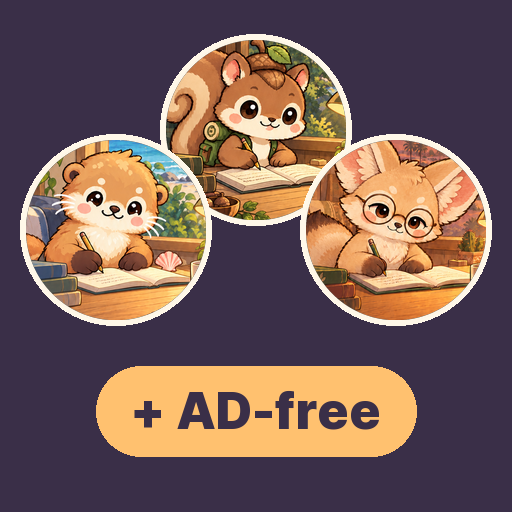
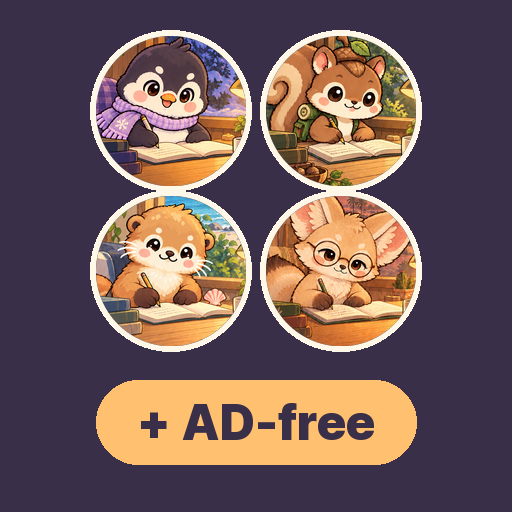
feat: sell the penguin and price products in pesos
The penguin becomes friend_penguin and joins the all-friends bundle, so the
red panda is the only free friend. Default prices are set in pesos (friend
MX$15, ad removal MX$10, bundle MX$35) with Mexico lowered to MX$10/10/29.
Adds the penguin product image, a four-friend bundle image, and bumps to
0.1.0+6.

diff --git a/test/purchases_test.dart b/test/purchases_test.dart
@@ -11,6 +11,7 @@ import 'session_engine_test.dart' show MemoryStore;
 import 'widget_test.dart' show loadAppFont;
 
 const _prices = {
+  Products.penguin: '₩1,500',
   Products.otter: '₩1,500',
   Products.squirrel: '₩1,500',
   Products.fennec: '₩1,500',
@@ -63,11 +64,12 @@ Future<void> _openFriends(WidgetTester tester, FocusFriendApp app) async {
 
 void main() {
   group('entitlements', () {
-    test('red panda and penguin are free; the others are sold', () {
+    test('only the red panda is free; the others are sold', () {
       const none = Entitlements();
       expect(none.hasFriend(FocusFriend.redpanda), isTrue);
-      expect(none.hasFriend(FocusFriend.penguin), isTrue);
+      expect(Products.forFriend(FocusFriend.redpanda), isNull);
       for (final friend in [
+        FocusFriend.penguin,
         FocusFriend.otter,
         FocusFriend.squirrel,
         FocusFriend.fennec,
@@ -120,7 +122,7 @@ void main() {
       ),
     );
     expect(find.byType(BundleBanner), findsOneWidget);
-    expect(find.byType(LockChip), findsNWidgets(2)); // otter, squirrel visible
+    expect(find.byType(LockChip), findsNWidgets(3)); // penguin, otter, squirrel
     await tester.tap(find.byKey(const ValueKey('friend-card-otter')));
     await tester.tap(find.byKey(const ValueKey('friend-preview')));
     await pumpPreviewTransition(tester);

diff --git a/lib/purchases.dart b/lib/purchases.dart
@@ -7,6 +7,7 @@ import 'focus_friend.dart';
 /// One-time Google Play products. The ids must match Play Console exactly and
 /// can never be reused once created, so do not rename them.
 abstract final class Products {
+  static const penguin = 'friend_penguin';
   static const otter = 'friend_otter';
   static const squirrel = 'friend_squirrel';
   static const fennec = 'friend_fennec';
@@ -16,12 +17,13 @@ abstract final class Products {
   /// separately, so this list stays fixed.
   static const allFriends = 'all_friends';
 
-  static const all = {otter, squirrel, fennec, removeAds, allFriends};
-  static const friends = [otter, squirrel, fennec];
+  static const all = {penguin, otter, squirrel, fennec, removeAds, allFriends};
+  static const friends = [penguin, otter, squirrel, fennec];
 
-  /// Null for the free friends.
+  /// Null for the free red panda.
   static String? forFriend(FocusFriend friend) => switch (friend) {
-    FocusFriend.redpanda || FocusFriend.penguin => null,
+    FocusFriend.redpanda => null,
+    FocusFriend.penguin => penguin,
     FocusFriend.otter => otter,
     FocusFriend.squirrel => squirrel,
     FocusFriend.fennec => fennec,

diff --git a/README.md b/README.md
@@ -102,17 +102,18 @@ flutter build appbundle --release --dart-define-from-file=admob.json
 
 ## 구매 (Google Play Billing)
 
-`in_app_purchase`로 한 번 사면 계속 쓰는(비소모성) 상품 5개를 팝니다. 계정·서버 없이 Google Play가 영수증을 보관하고, 앱이 실행·복귀할 때마다 `queryPastPurchases`로 다시 확인합니다. 새 구매는 바로 승인(acknowledge)해서 Play가 3일 뒤 자동 환불하지 않게 합니다. 코드는 `lib/purchases.dart`(상품·보유 판단·Play 연결), `lib/purchase_sheet.dart`(묶음 시트·잠금 표시)에 있습니다. 결정 근거와 시안은 `docs/design/bm-mockup/bm-v5.png`, 실제 화면 캡처는 `docs/design/purchases-v1/`에 있습니다.
+`in_app_purchase`로 한 번 사면 계속 쓰는(비소모성) 상품 6개를 팝니다. 계정·서버 없이 Google Play가 영수증을 보관하고, 앱이 실행·복귀할 때마다 `queryPastPurchases`로 다시 확인합니다. 새 구매는 바로 승인(acknowledge)해서 Play가 3일 뒤 자동 환불하지 않게 합니다. 코드는 `lib/purchases.dart`(상품·보유 판단·Play 연결), `lib/purchase_sheet.dart`(묶음 시트·잠금 표시)에 있습니다. 결정 근거와 시안은 `docs/design/bm-mockup/bm-v5.png`, 실제 화면 캡처는 `docs/design/purchases-v1/`에 있습니다.
 
-| 상품 ID | 내용 | 한국 가격 |
-| --- | --- | --- |
-| `friend_otter` | 해달 | ₩1,500 |
-| `friend_squirrel` | 다람쥐 | ₩1,500 |
-| `friend_fennec` | 사막여우 | ₩1,500 |
-| `remove_ads` | 기록·설정의 광고 제거 | ₩1,000 |
-| `all_friends` | 위 친구 3명 + 광고 제거. 앞으로 나올 친구는 포함하지 않음 | ₩3,500 |
+| 상품 ID | 내용 | 기본 가격 | 멕시코 |
+| --- | --- | --- | --- |
+| `friend_penguin` | 펭귄 | MX$15 | MX$10 |
+| `friend_otter` | 해달 | MX$15 | MX$10 |
+| `friend_squirrel` | 다람쥐 | MX$15 | MX$10 |
+| `friend_fennec` | 사막여우 | MX$15 | MX$10 |
+| `remove_ads` | 기록·설정의 광고 제거 | MX$10 | MX$10 |
+| `all_friends` | 위 친구 4명 + 광고 제거. 앞으로 나올 친구는 포함하지 않음 | MX$35 | MX$29 |
 
-- 랫서팬더와 펭귄은 무료입니다. 가격은 앱에 적지 않고 Play가 알려준 현지 가격을 그대로 보여줍니다. 국가별 가격(예: 멕시코 친구 MX$10 / 광고 제거 MX$10 / 묶음 MX$29)은 Play Console에서 정합니다.
+- 무료 친구는 랫서팬더 하나입니다. 가격은 앱에 적지 않고 Play가 알려준 현지 가격을 그대로 보여줍니다. 가격은 Play Console에서 정하고, 기본 가격을 다른 나라는 Play가 환산하며 멕시코만 직접 내립니다. 등록표는 `docs/play-console/products/README.md`에 있습니다.
 - OXXO 현금 결제처럼 돈이 나중에 들어오는 결제는 "결제 대기 중"으로 보이고, 결제가 끝나면 앱 복귀 때 자동으로 열립니다.
 - Play가 보유하지 않았다고 확실히 답한 친구(구매 전이거나 환불)를 쓰고 있으면 랫서팬더로 돌아갑니다. 오프라인이거나 Play가 답하지 않으면 아무것도 빼앗지 않습니다.
 - Play 상품 하나는 가격이 고정이라, 친구 하나를 이미 산 사람에게도 묶음은 같은 가격입니다. 묶음 시트에서 이미 가진 항목에 "보유"를 표시합니다.
